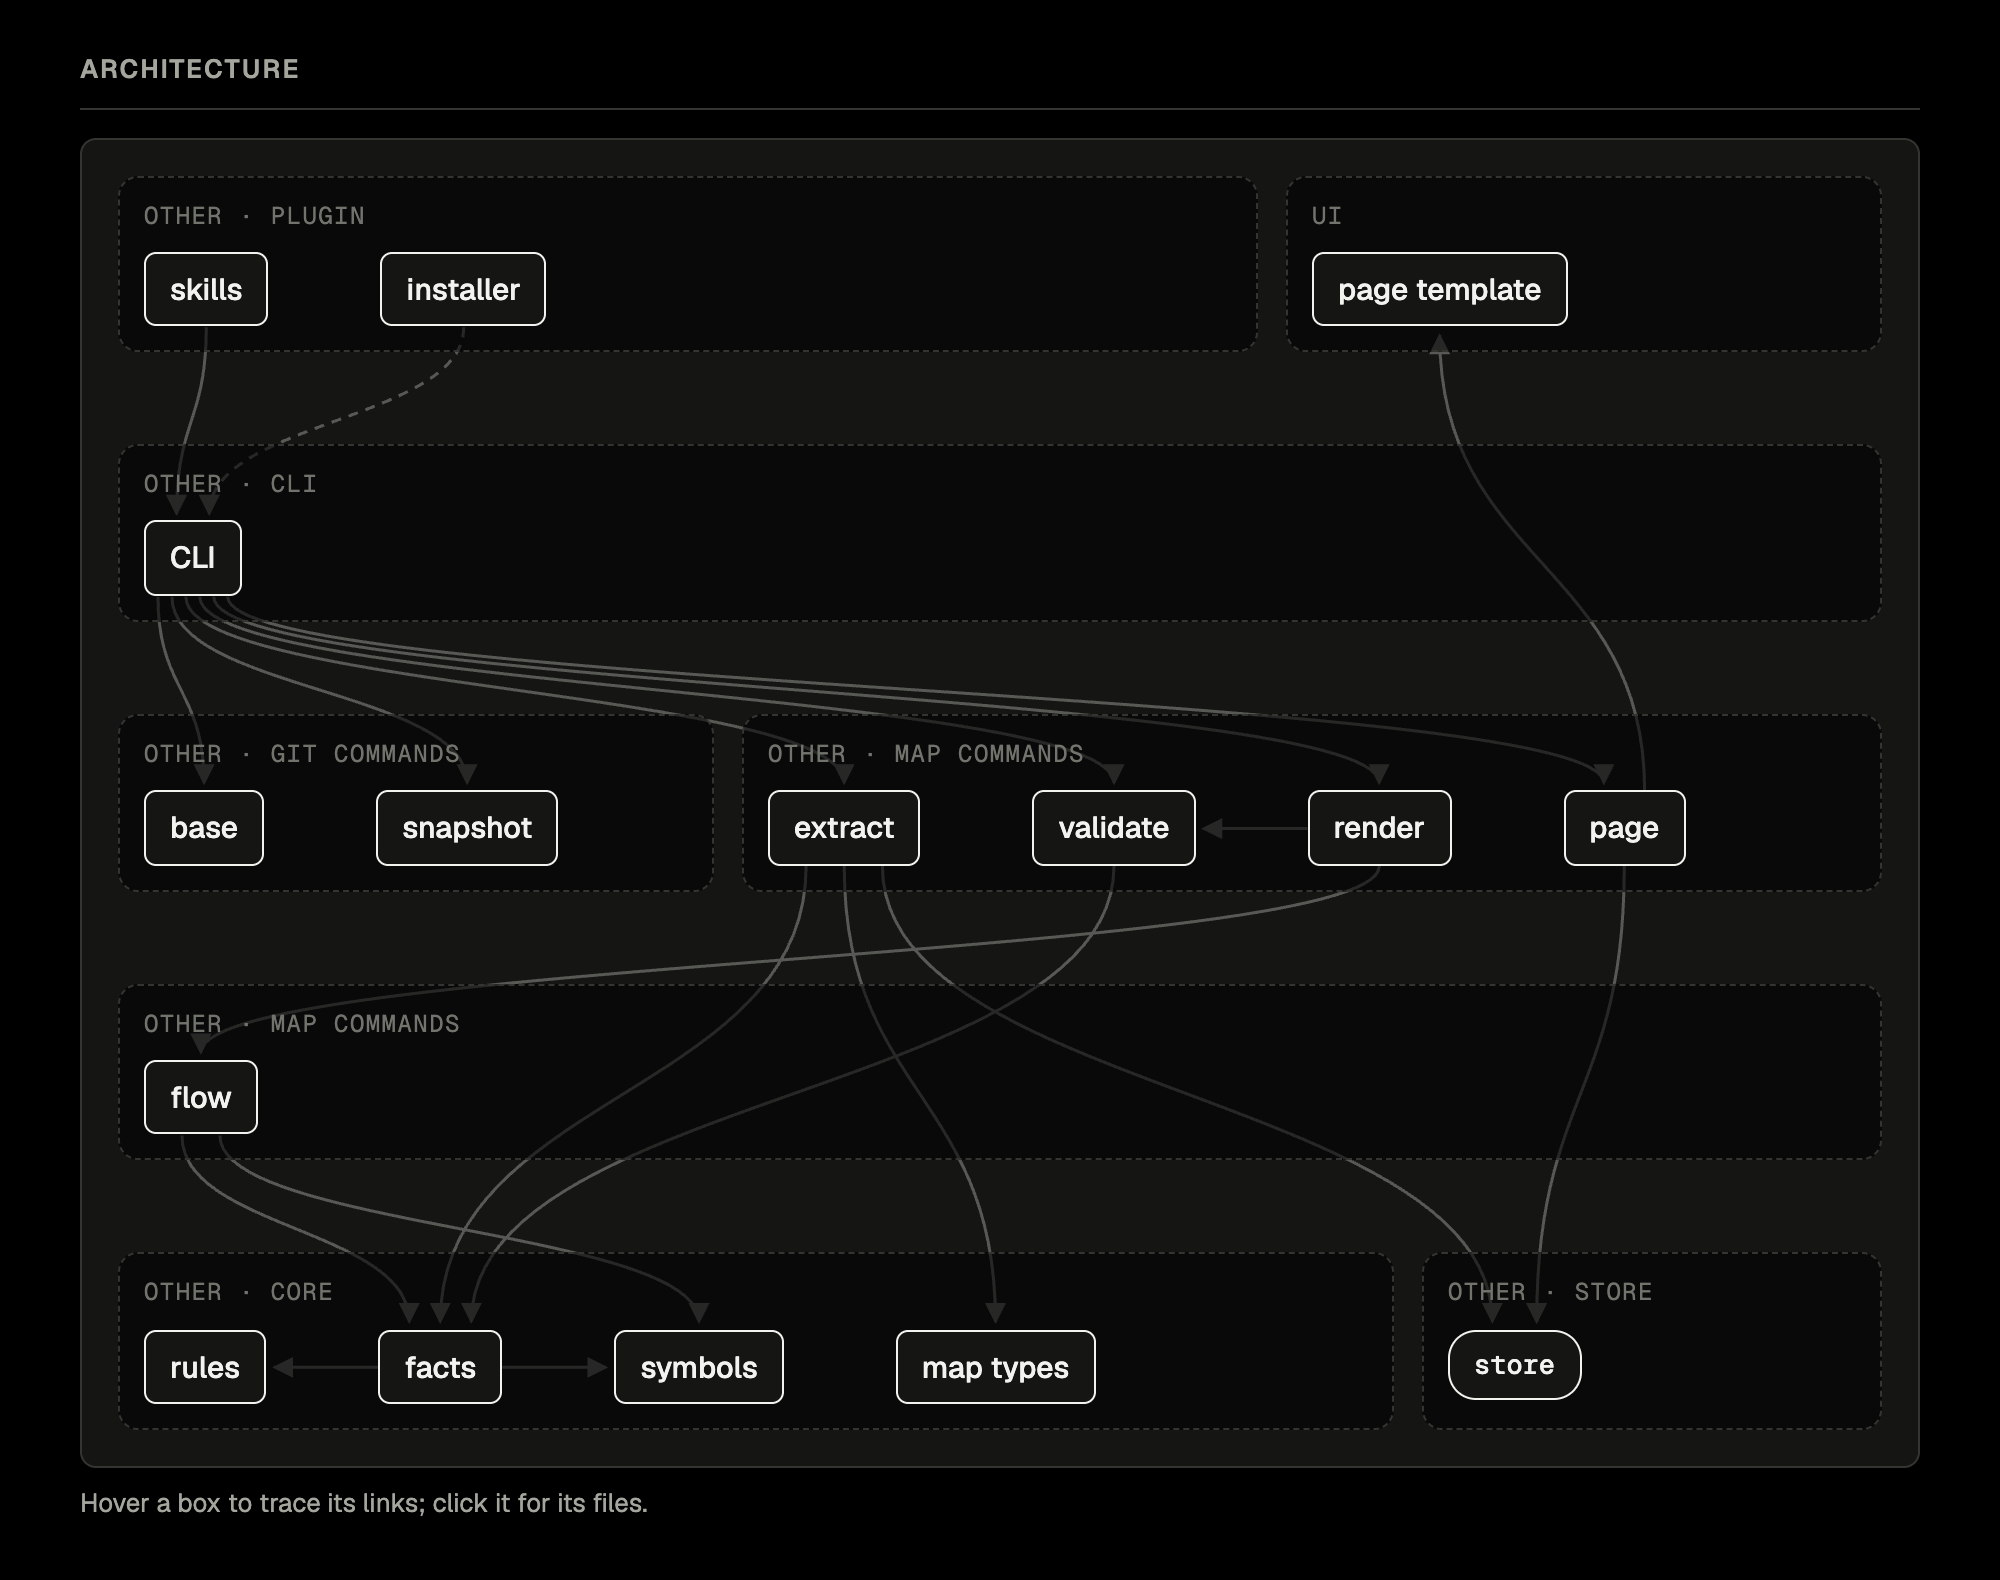
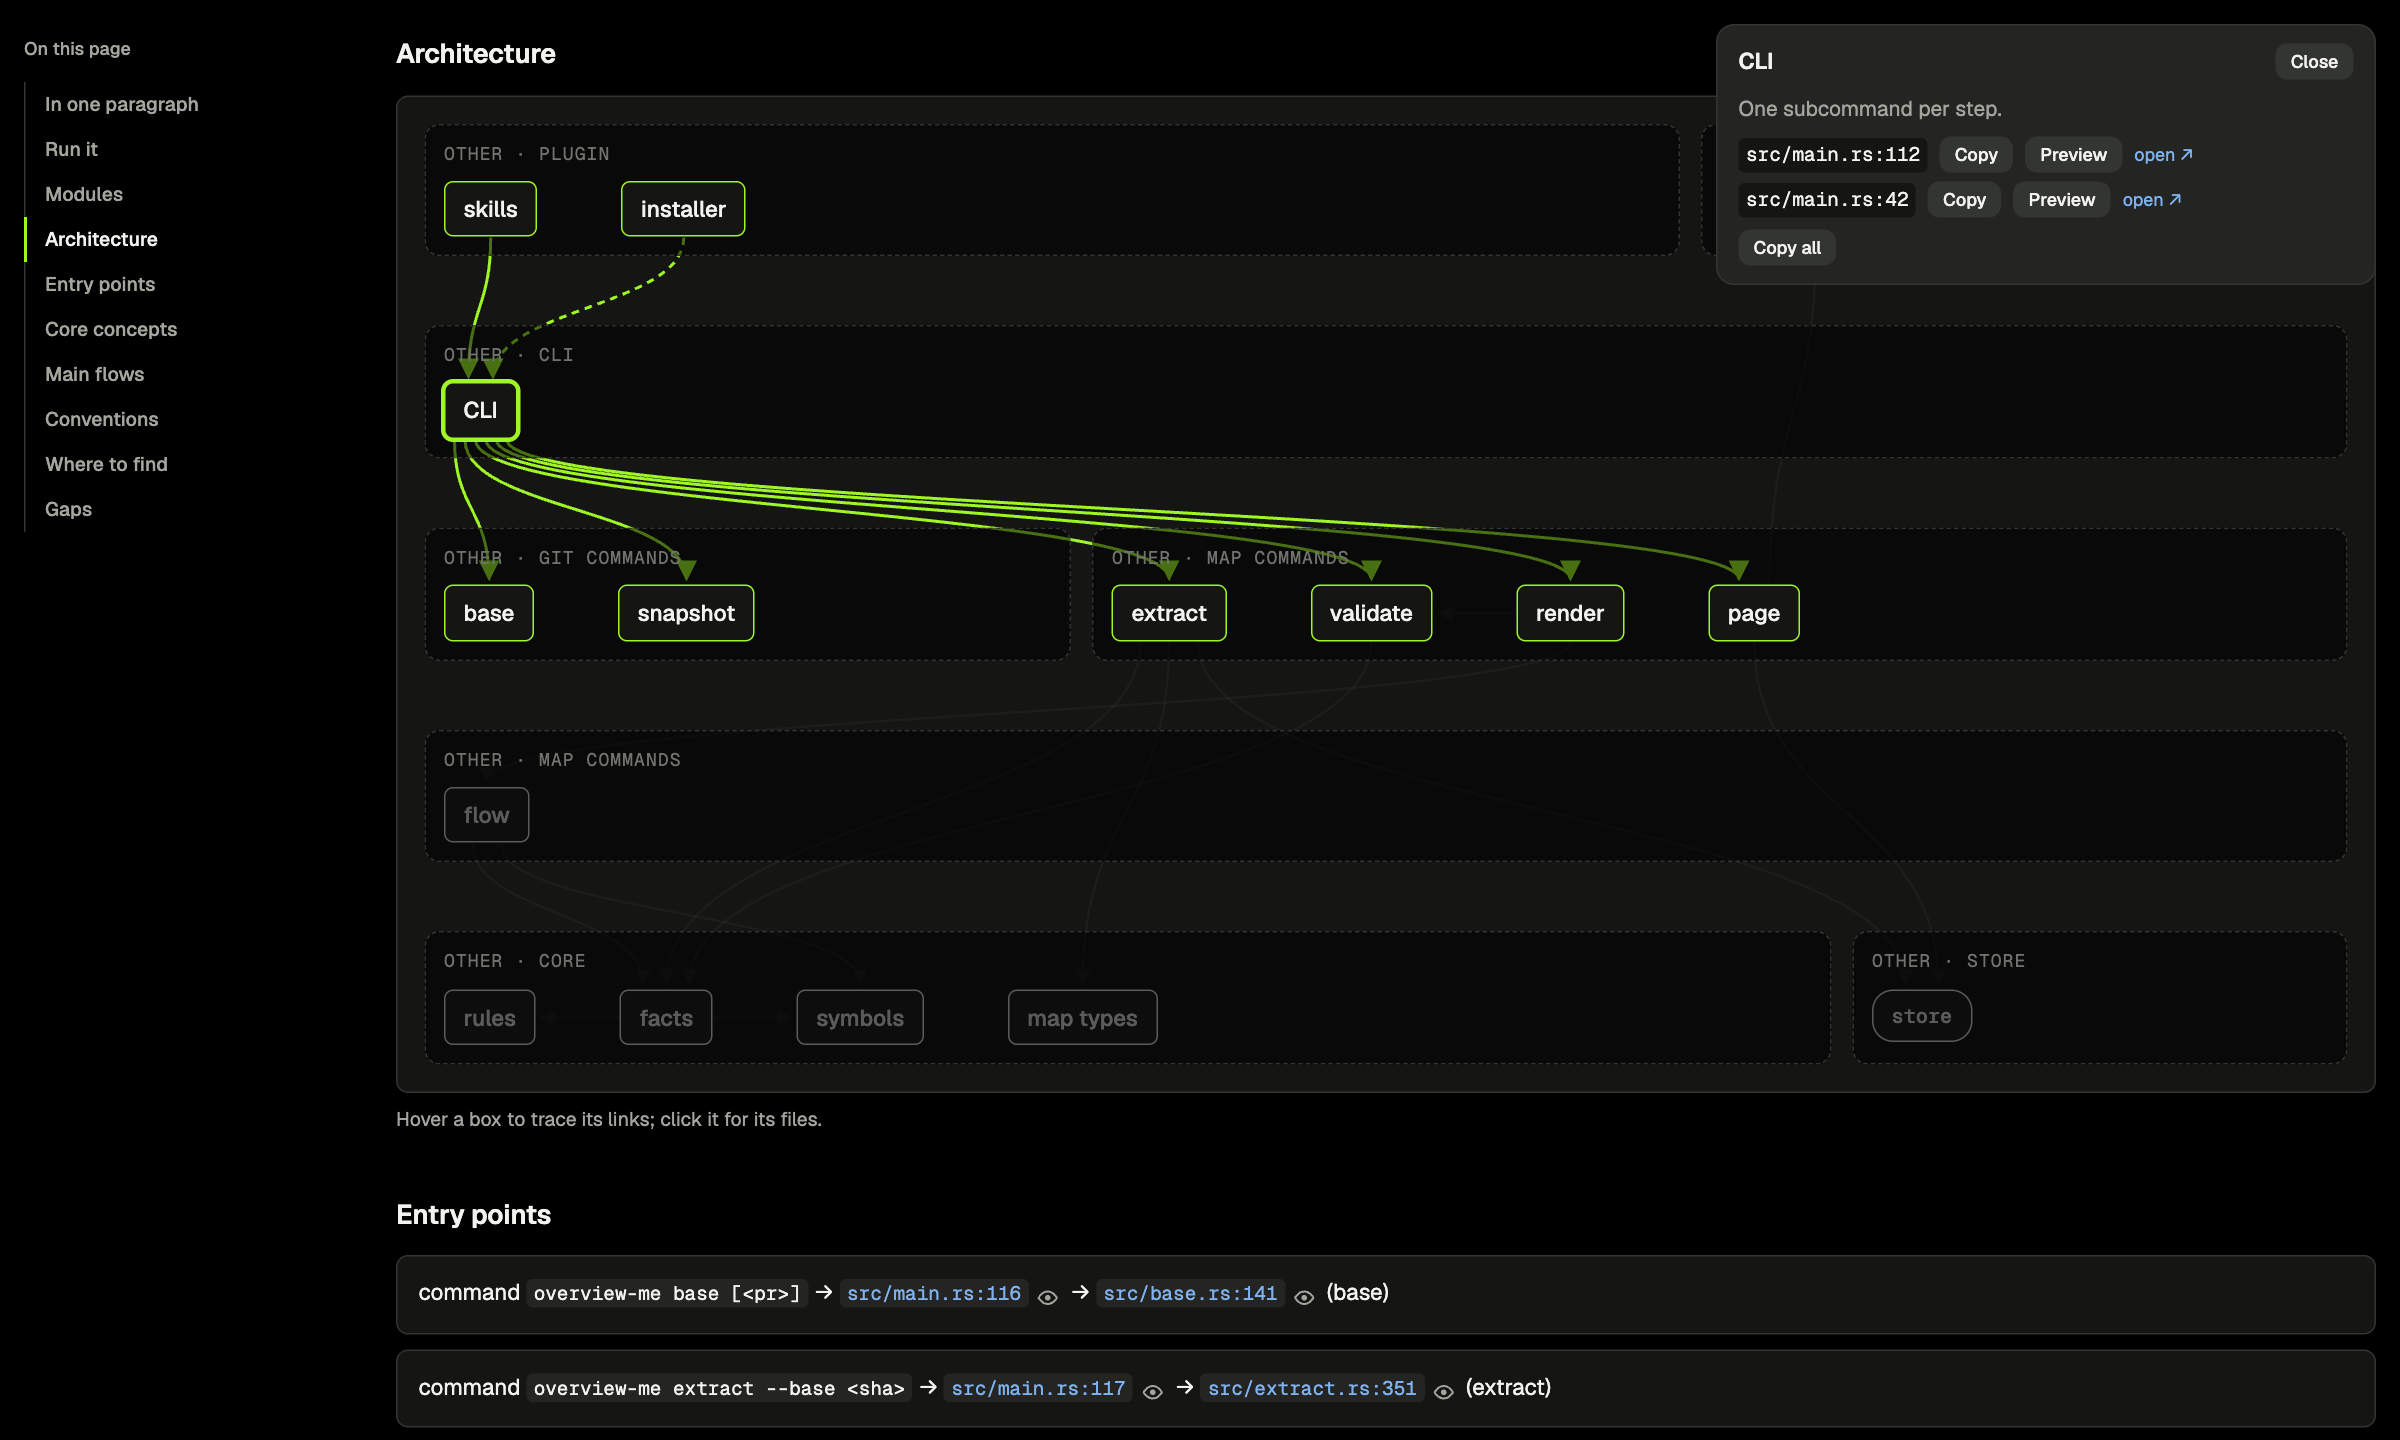
docs: rewrite the README and add a tutorial with screenshots (#46)

diff --git a/README.md b/README.md
@@ -2,21 +2,19 @@
 
 Understand a code change in five minutes instead of reading the diff line by line.
 
-overview-me is a Claude Code plugin. Ask Claude about a PR, your uncommitted changes or a whole codebase, and it writes a one-page overview: what the change does, how the code flows before and after it, which tests prove each claim, which few places to read first, and what is easy to miss (breaking changes, races, migrations and the like). Every claim points to `path:line`, and the change map behind it is checked against git.
+overview-me is a Claude Code plugin. Ask Claude about a PR, your uncommitted changes or a whole codebase, and it writes a one-page overview you can click through.
 
-## Why not just ask Claude?
+![A PR overview: the header facts, the On this page list and the first sections](docs/images/page-dark.png)
 
-You can ask any agent to "explain this PR", with or without a skill. The answer changes from run to run: the agent may read different files, skip a changed file it never opened, cite a line that moved, or say a test proves something it doesn't. A skill is only instructions, and the model follows them more or less closely each time.
+## What you get
 
-Most of that work doesn't need an agent anyway. Listing changed lines, tracking moves, finding callers and checking that a test exists are mechanical jobs. A program does them the same way every time, and it is never wrong about what git says. So overview-me follows one rule: **if a tool can do the job, a tool does it. The agent only does what needs judgment.**
+- **The flow, before and after.** Diagrams of how the code ran before the change and how it runs now. Hover a box to trace its links, click it for its files.
+- **Every claim points to code.** Each `path:line` has a preview that opens the file at those lines and rings the boxes that hold them in the flow.
+- **Claims checked against tests.** Each criterion shows the code that implements it and the tests that prove it, or says that none do.
+- **Where to start.** The few places to read first, and what is easy to miss: breaking changes, races, migrations and the like.
+- **A map of the repo.** A codebase overview draws the modules and how they call each other. PR overviews use it to say where a change sits.
 
-- **The tool gets the facts.** A small CLI reads git and parses the code with tree-sitter. It finds the changed lines, the moved and deleted files, and which functions call which. The same diff always gives the same map.
-- **The agent writes the labels.** Claude adds what a program can't: the criteria, the captions, the groups and the reading order.
-- **The tool checks the agent.** `overview-me validate` rejects the map if a changed line, deleted file or move doesn't belong to exactly one stop. It also rejects a test cited as proof that isn't a real test at that line. Claude must fix the map until it passes, and only then writes the overview.
-- **Fixed rules decide the grouping.** Lanes, test paths and risk keywords come from `rules.json`, so a file lands in the same place on every run.
-- **One map per commit.** The map is saved under the commit's SHA and reused, so asking again about the same commit gives the same structure.
-
-The wording still changes between runs, but the facts don't. Nothing in the diff is skipped without a word, and every `path:line` points to real code.
+The [tutorial](docs/tutorial.md) walks through a real page, step by step, with screenshots.
 
 ## Install
 
@@ -26,23 +24,6 @@ In Claude Code:
 /plugin marketplace add CaoKha/overview-me
 /plugin install overview-me@overview-me
 ```
-
-## Update
-
-### Manually
-
-In a terminal:
-
-```sh
-claude plugin marketplace update overview-me
-claude plugin update overview-me@overview-me
-```
-
-The first command fetches the latest list of versions; the second installs the newest one. Then start a new Claude Code session: the new skills load, and the session downloads the CLI for the new version.
-
-### Automatically
-
-Run `/plugin` in Claude Code, open the overview-me marketplace, and turn on auto-update. Claude Code then installs new versions for you; the next session after an update downloads the new CLI.
 
 ## Use
 
@@ -54,22 +35,35 @@ Ask in plain words, or run the command:
 | "overview of my changes" | `/overview-me:change-overview` | the same, for your uncommitted files |
 | "explain this codebase" | `/overview-me:codebase-overview` | a map of the repo; PR overviews use it to place a change |
 
-The result opens as a page, with a bar at the top to jump between its sections. Hover a box in a flow diagram to trace its links, click it to copy its file paths into your editor, and preview any `path:line` in the page or follow it to the code. A preview highlights the boxes that hold that code, with a link to each.
+In Claude Code the overview opens as a private Claude artifact; elsewhere it opens as an HTML file in your browser.
 
-This is the architecture diagram from the codebase overview of overview-me itself. Each box is a module, and each arrow shows which module calls which:
+## Why not just ask Claude?
 
-![Architecture of overview-me: skills and the installer call the CLI, which runs the git and map commands; these use the core modules and write to the store](docs/images/architecture.png)
+You can ask any agent to "explain this PR". The answer changes from run to run: the agent may read different files, skip a changed file it never opened, cite a line that moved, or say a test proves something it doesn't.
 
-Click a box to open its side panel with the box's note and the files to copy, preview or open. Preview shows the file inside the panel, scrolled to the cited line. The box's links stay highlighted:
+Most of that work doesn't need an agent. Listing changed lines, tracking moves, finding callers and checking that a test exists are mechanical jobs, and a program does them the same way every time. So overview-me follows one rule: **if a tool can do the job, a tool does it. The agent only does what needs judgment.**
 
-| Dark | Light |
-| --- | --- |
-| ![The side panel for the CLI box in dark mode, with src/main.rs:42 previewed inline and line 42 highlighted](docs/images/architecture-side-panel-dark.png) | ![The same side panel in light mode](docs/images/architecture-side-panel-light.png) |
+- **The tool gets the facts.** A small CLI reads git and parses the code with tree-sitter. It finds the changed lines, the moved and deleted files, and which functions call which. The same diff always gives the same map.
+- **The agent writes the labels.** Claude adds what a program can't: the criteria, the captions, the groups and the reading order.
+- **The tool checks the agent.** `overview-me validate` rejects the map if a changed line, deleted file or move doesn't belong to exactly one stop, or if a test cited as proof isn't a real test at that line. Claude fixes the map until it passes, and only then writes the overview.
+- **Fixed rules decide the grouping.** Lanes, test paths and risk keywords come from `rules.json`, so a file lands in the same place on every run.
+- **One map per commit.** The map is saved under the commit's SHA and reused, so asking again about the same commit gives the same structure.
 
-Every `path:line` in the text has a preview (eye) button too. It opens the whole file in a panel you can move and resize, with syntax colors and the cited lines highlighted:
+The wording still changes between runs, but the facts don't. Nothing in the diff is skipped without a word, and every `path:line` points to real code.
 
-| Dark | Light |
-| --- | --- |
-| ![The code panel for src/main.rs:57 in dark mode, opened from the entry points list, with line 57 highlighted](docs/images/code-preview-dark.png) | ![The same code panel in light mode](docs/images/code-preview-light.png) |
+## Update
+
+In a terminal:
+
+```sh
+claude plugin marketplace update overview-me
+claude plugin update overview-me@overview-me
+```
+
+The first command fetches the latest list of versions; the second installs the newest one. Then start a new Claude Code session: the new skills load, and the session downloads the CLI for the new version.
+
+To update automatically, run `/plugin` in Claude Code, open the overview-me marketplace, and turn on auto-update.
+
+## Contribute
 
 Working on overview-me itself? See [CONTRIBUTING.md](CONTRIBUTING.md).

diff --git a/docs/tutorial.md b/docs/tutorial.md
@@ -1,0 +1,80 @@
+# Tutorial: read an overview
+
+This tutorial walks through one real page: the PR overview of overview-me's own PR #40, which makes code previews light up the flow diagram. Every overview page works the same way.
+
+## 1. Make an overview
+
+In Claude Code, on the branch you want to understand, ask in plain words or run the command:
+
+```
+/overview-me:pr-overview
+```
+
+Use `/overview-me:change-overview` for uncommitted work, and `/overview-me:codebase-overview` for a map of the whole repo.
+
+Claude runs the overview-me CLI, which reads git and the code and writes the page skeleton. Claude then fills in the parts that need judgment. In Claude Code the page opens as a private Claude artifact; elsewhere it opens as an HTML file in your browser.
+
+## 2. Find your way
+
+The header shows what the page covers: the commits it compares, the number of stops (pieces of changed code), the number of criteria and the spec it checked against.
+
+On a wide screen, **On this page** on the left lists every section and marks the one you are reading. Click a name to jump to it. On a narrow screen the same list is a bar at the top.
+
+![The top of a PR overview: the header facts, the On this page list on the left, and the first sections](images/page-dark.png)
+
+## 3. Read the flow
+
+The Flow section draws how the code ran before the change and how it runs now, side by side on a wide screen. Each box is a piece of code, in a lane (ui, api, services, db and so on). Its `N1`-style chip is the stop's id, used everywhere on the page.
+
+- A box with a solid border is changed by the branch, a green one is new, a red dashed one is removed, and a grey dashed one is unchanged code the change calls or is called by.
+- Hover a box (or tab to it) to trace its links: its arrows and the boxes at their other end light up, and the rest fades.
+- The numbered steps under each diagram follow the code in the order it runs.
+
+![The Before and After flows side by side, with the showCode box hovered and its links traced](images/flow-hover.png)
+
+## 4. Open a box
+
+Click a box to open its panel on the right. It shows the box's note and its files as `path:line`:
+
+- **Copy** puts the path on your clipboard, ready for your editor's file search. **Copy all** copies every path.
+- **Preview** shows the file inside the panel, scrolled to the cited lines, which are highlighted. **Hide** closes it.
+- **open ↗** opens the lines on GitHub at the commit the page describes.
+
+Drag the panel by its title to move it, and drag any edge or corner to resize it. Double-click the title or an edge to reset it. Press Escape or click the box again to close it.
+
+![The panel of the new pathScore box, with its file previewed and the cited lines highlighted](images/box-panel.png)
+
+## 5. Preview code from the text
+
+Every `path:line` in the text has an eye button next to it. Click it to open the whole file in a code panel, scrolled to the cited lines.
+
+The preview also finds that code in the flow. The boxes that hold those lines get a yellow ring, and the panel lists them under **In the flow**. Click one to scroll to its box. Click the eye again, or **Close**, to close the preview and clear the rings.
+
+If the panel covers the box you are looking for, drag the panel aside or make it narrower.
+
+![The code panel for showCode, opened from the entry points, with the showCode box ringed in yellow in the After flow](images/preview-highlight.png)
+
+## 6. Check the claims
+
+The sections after the flow tell you what to trust and where to look:
+
+- **Claims and proof** lists each criterion with the code that implements it and the tests that prove it. A green badge means implemented and proved by a test. A yellow one means untested, or partial when part of the logic lives outside the diff. A red one means missing. Each untested criterion also shows up under Open questions.
+- **Read first** names the few places that hold the decisions. Everything else is listed under Skim.
+- **Watch out** tags what is easy to miss: red for Breaking and Security, yellow for Migration, Race and Perf, orange for Subtle.
+- **Open questions** lists what the code cannot answer, each with the `path:line` it is about.
+
+![Claims and proof with three untested criteria, Read first, Watch out and Open questions](images/claims.png)
+
+## 7. Map a codebase
+
+A codebase overview draws the whole repo as modules and how they call each other. It works like the flow: hover a module to trace it, click it for its folder and entry points. PR overviews use this map to say where a change sits.
+
+![The architecture of overview-me itself, with the CLI module pinned and its panel open](images/architecture.png)
+
+## 8. Light, dark and phone
+
+The page follows your system theme. On a phone, the sections bar sits at the top and panels open as a bottom sheet you can drag taller or shorter.
+
+| Light | Phone |
+| --- | --- |
+| ![The top of the page in light mode](images/page-light.png) | ![The top of the page on a phone](images/phone.png) |
